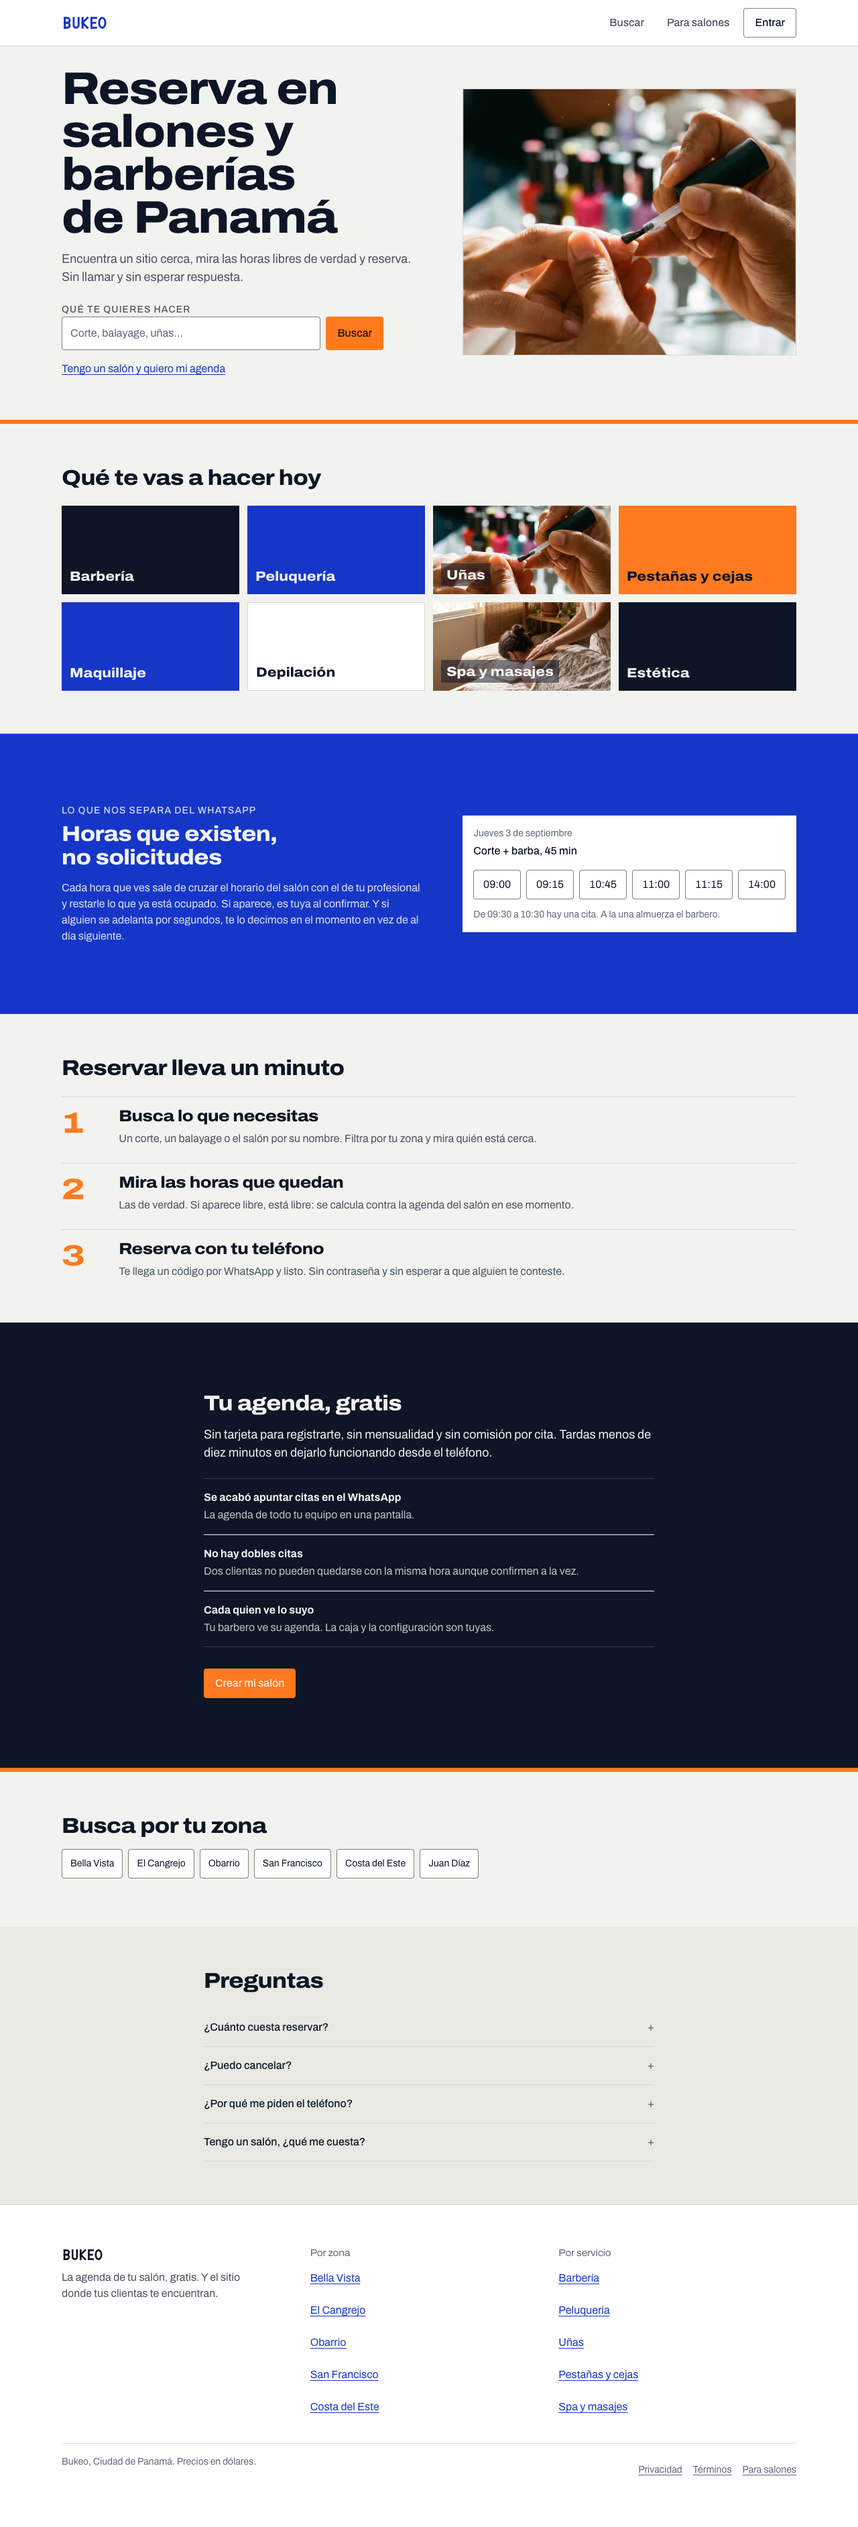
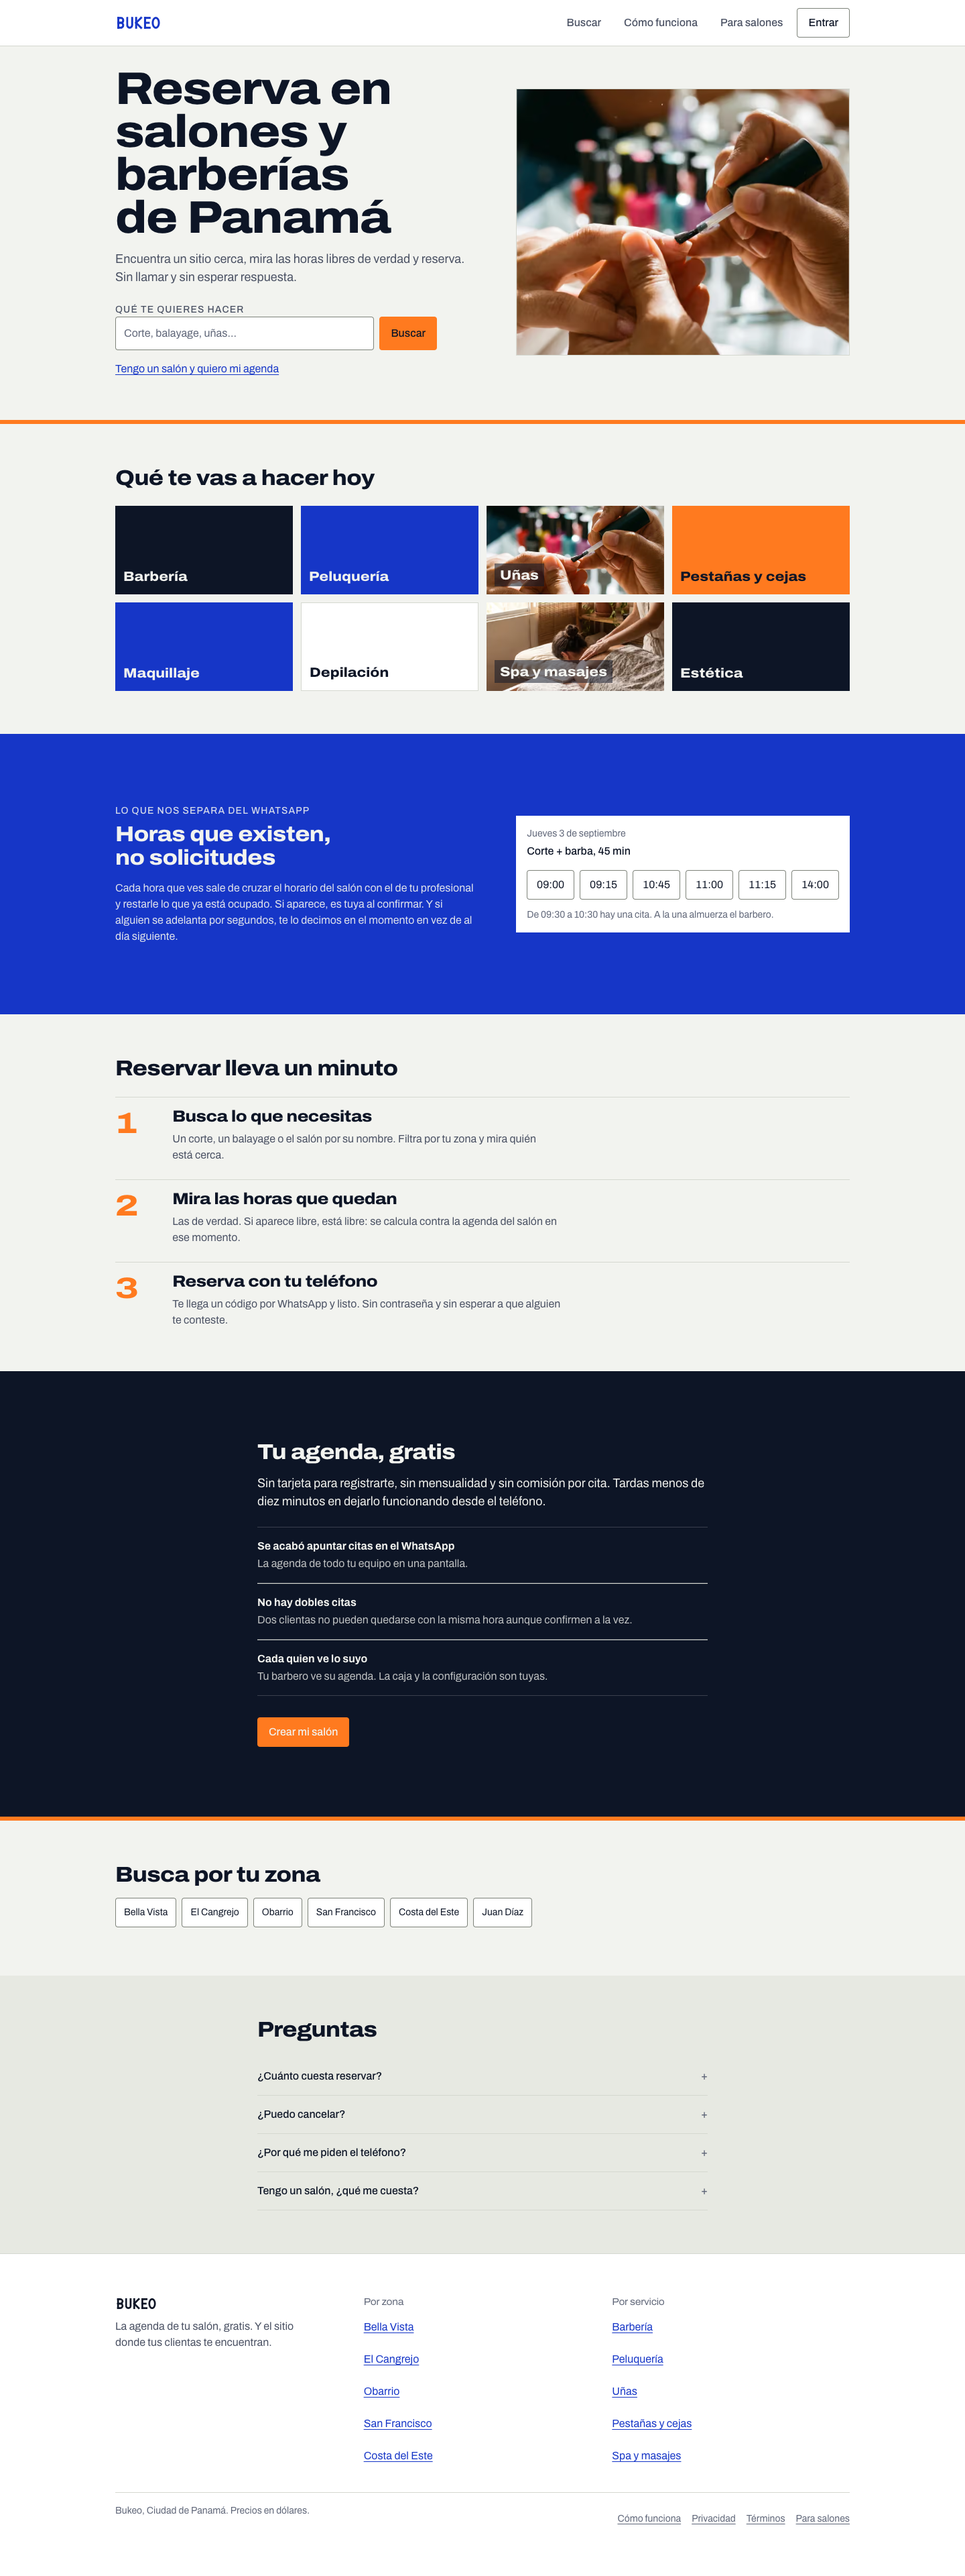
fix(web): la línea de texto de los pasos no crece con la pantalla
En un escritorio de 1440 los párrafos numerados corrían 1.100 px. A ese
ancho el ojo pierde el principio de la línea siguiente y se lee saltando
de renglón.

diff --git a/apps/web/app/globales.css b/apps/web/app/globales.css
@@ -513,6 +513,9 @@ button, input, select, textarea { font: inherit; color: inherit; }
   color: var(--color-abre);
   min-width: 2ch;
 }
+/* La línea de texto no crece con la pantalla. Un párrafo de 1.100 px se lee saltando de
+   renglón: el ojo pierde el principio de la línea siguiente. */
+.pasos p { max-width: 68ch; }
 
 .pregunta {
   border-bottom: 1px solid var(--color-borde);
